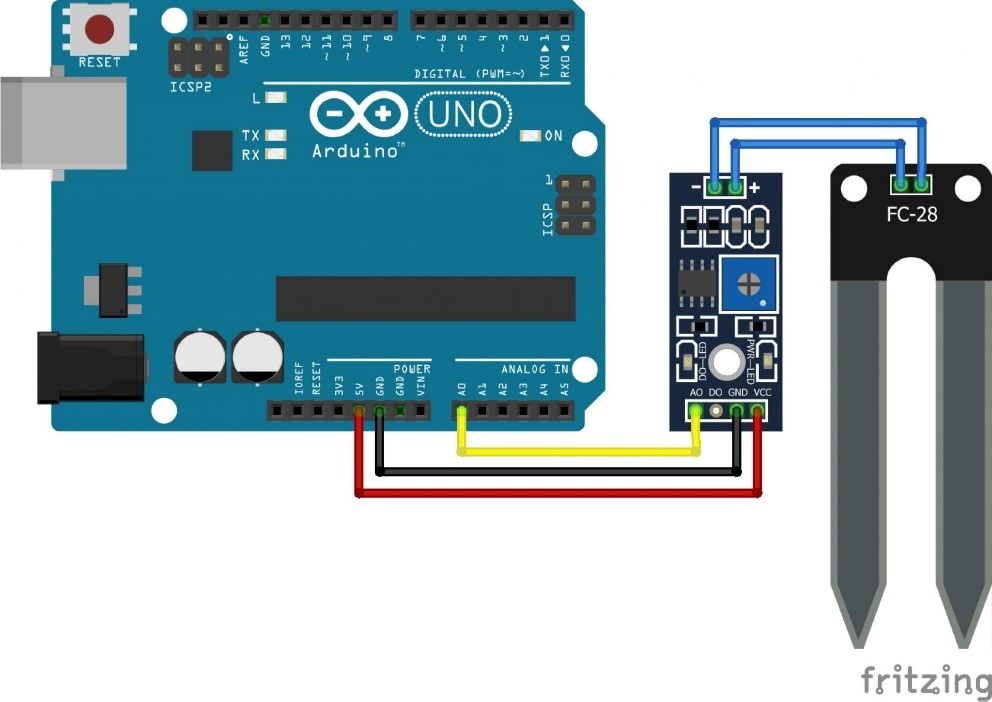
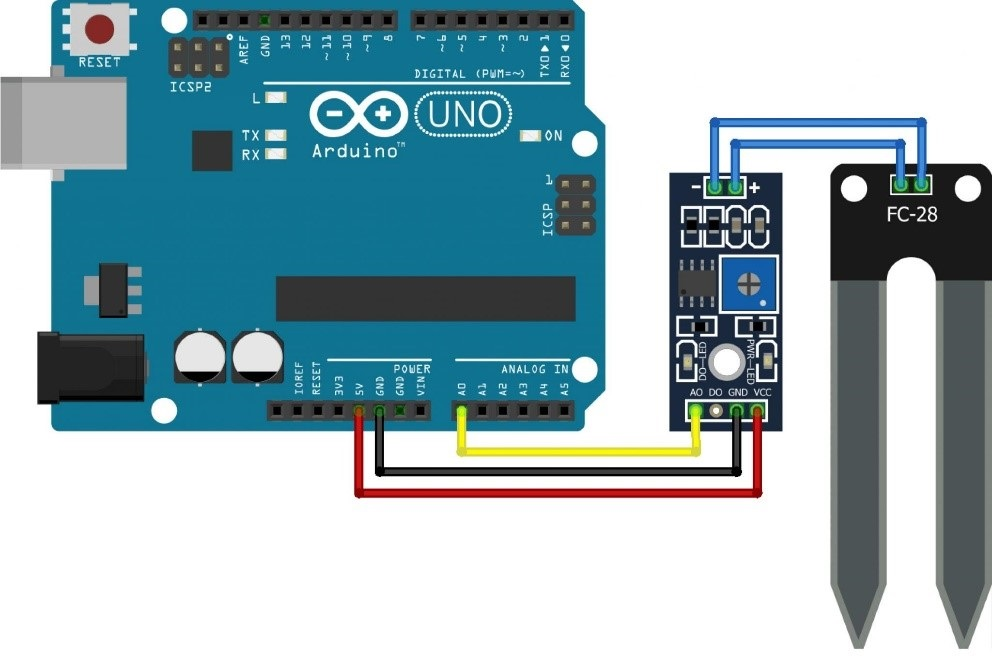
archivo readme 2

diff --git a/README.md b/README.md
@@ -10,21 +10,21 @@ var clienteServer = require('socket.io-client')('http://localhost:8080');
 
 Para usar el sensor de proximidad con johnny-five es necesario grabar PingFirmata(este firmware se encuentra en proximidad/pingFirmata) en el Arduino, en los proyectos distintos a este usar StandardFirmata
 
-##Diagramas
-###Sensor de humedad DTH11
-<img src="capturas/ddth11.jpg">
+## Diagramas
+### Sensor de humedad DTH11
+<img width="200" src="capturas/ddth11.jpg">
 
-###Sensor de humedad YL-69
-<img src="capturas/dhumedad.jpg">
+### Sensor de humedad YL-69
+<img width="200" src="capturas/dhumedad.jpg">
 
-###Sensor de luz
-<img src="capturas/dluz.png">
+### Sensor de luz
+<img width="200" src="capturas/dluz.png">
 
-###Motor DC
-<img src="capturas/dmotor.png">
+### Motor DC
+<img width="200" src="capturas/dmotor.png">
 
-###Led RGB
-<img src="capturas/drgb.png">
+### Led RGB
+<img width="200" src="capturas/drgb.png">
 
-###Sensor de velocidad RPM LM393
-<img src="capturas/drpm.png">
+### Sensor de velocidad RPM LM393
+<img width="200" src="capturas/drpm.png">
